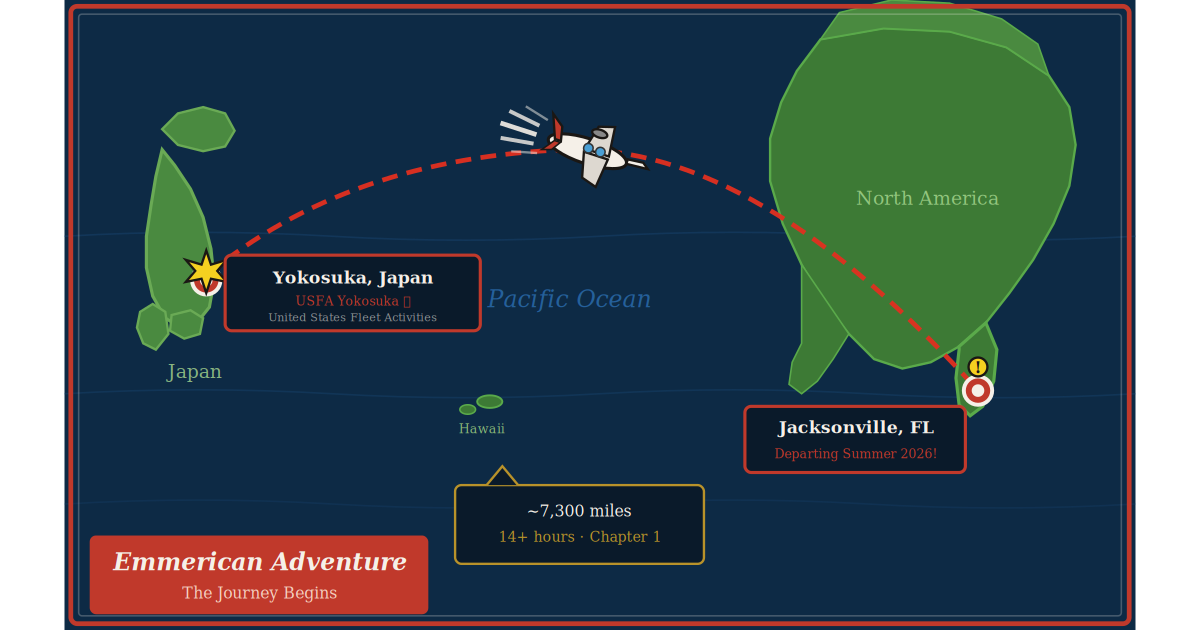
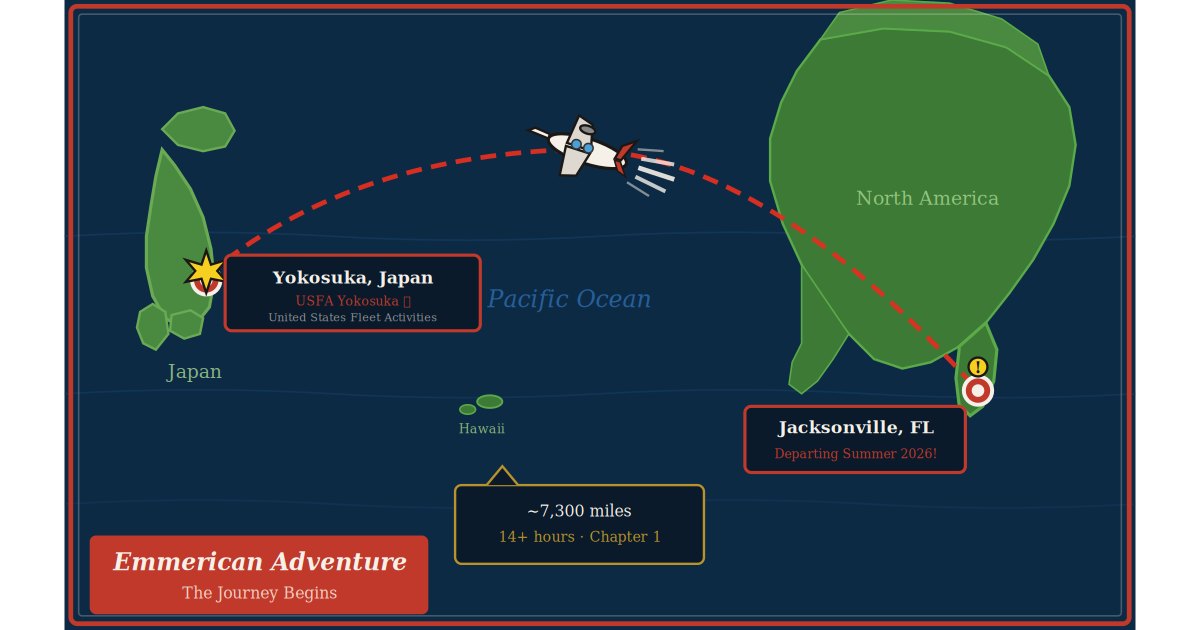
Fix journey map alignment, CSS brace bug, correct airplane direction

Changed region(s): [[0.4008, 0.181, 0.555, 0.3016]]

diff --git a/index.html b/index.html
@@ -174,7 +174,7 @@
 
 
     <!-- ─── THE JOURNEY MAP ─────────────────────────────────────── -->
-        <section class="journey-map-section">
+    <section class="journey-map-section">
       <div class="section-header">
         <h2 class="section-title">7,300 Miles West</h2>
         <div class="section-rule"></div>

diff --git a/style.css b/style.css
@@ -1135,4 +1135,3 @@ img { max-width: 100%; display: block; }
 @media (max-width: 600px) {
   .journey-map-section { padding: 3rem 1.25rem; }
 }
-}